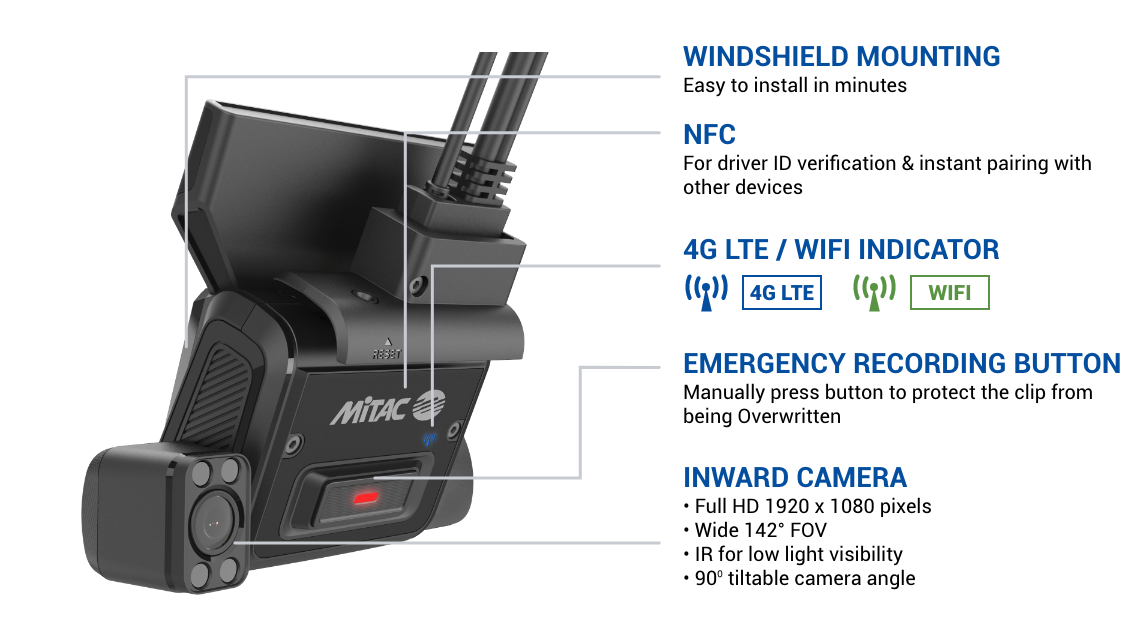
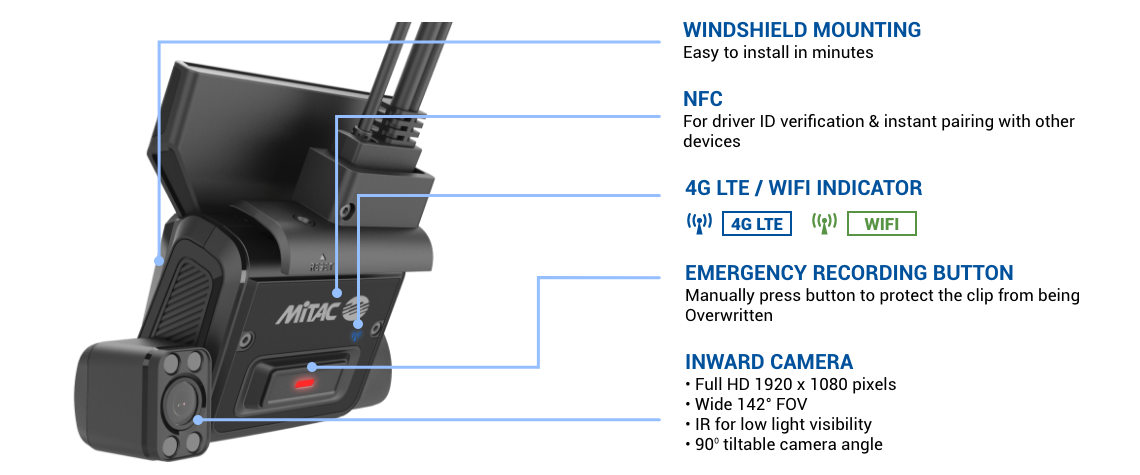
changed k145c images

Changed region(s): [[0.0614, 0.0295, 0.9825, 0.9726], [0.5833, 0.7368, 0.8289, 0.9726]]

diff --git a/en/connected-dashcam-K145C-K245C.php b/en/connected-dashcam-K145C-K245C.php
@@ -159,20 +159,24 @@
 				</div>
 				<div class="col-md-12 align-items-stretch padding-bottom-small background-grey">	
 					<div class="productGrid section justify-content-center text-left rwd-padding-on-grid pdt_img">
-						<img src="../images/video-telematics/K145C_K245C_detailed_views_01.png" />
+						<img src="../images/video-telematics/K145C_K245C_detailed_views_01.png" class="img-fluid mx-auto rounded d-none d-md-block" />
+						<img src="../images/video-telematics/K145C_K245C_detailed_views_m_01.png" class="img-fluid mx-auto rounded d-block d-md-none" />
 					</div>
 				</div>
 				<div class="col-md-12 align-items-stretch padding-bottom-small background-grey">	
 					<div class="productGrid section justify-content-center text-left rwd-padding-on-grid pdt_img">
-						<img src="../images/video-telematics/K145C_K245C_detailed_views_02.png" />
+						<img src="../images/video-telematics/K145C_K245C_detailed_views_02.png" class="img-fluid mx-auto rounded d-none d-md-block" />
+						<img src="../images/video-telematics/K145C_K245C_detailed_views_m_02.png" class="img-fluid mx-auto rounded d-block d-md-none" />
 					</div>
 				</div>
 				<div class="col-md-12 align-items-stretch padding-bottom-small background-grey">	
 					<div class="productGrid section justify-content-center text-left rwd-padding-on-grid pdt_img">
-						<img src="../images/video-telematics/K145C_K245C_detailed_views_03.png" />
+						<img src="../images/video-telematics/K145C_K245C_detailed_views_03.png" class="img-fluid mx-auto rounded d-none d-md-block" />
+						<img src="../images/video-telematics/K145C_K245C_detailed_views_m_03.png" class="img-fluid mx-auto rounded d-block d-md-none" />
 					</div>
 				</div>
 			</div>
+
 		</div>	
 	</div>
 

diff --git a/tw/connected-dashcam-K145C-K245C.php b/tw/connected-dashcam-K145C-K245C.php
@@ -162,20 +162,24 @@
 				</div>
 				<div class="col-md-12 align-items-stretch padding-bottom-small background-grey">	
 					<div class="productGrid section justify-content-center text-left rwd-padding-on-grid pdt_img">
-						<img src="../images/video-telematics/K145C_K245C_detailed_views_01.png" />
+						<img src="../images/video-telematics/K145C_K245C_detailed_views_01.png" class="img-fluid mx-auto rounded d-none d-md-block" />
+						<img src="../images/video-telematics/K145C_K245C_detailed_views_m_01.png" class="img-fluid mx-auto rounded d-block d-md-none" />
 					</div>
 				</div>
 				<div class="col-md-12 align-items-stretch padding-bottom-small background-grey">	
 					<div class="productGrid section justify-content-center text-left rwd-padding-on-grid pdt_img">
-						<img src="../images/video-telematics/K145C_K245C_detailed_views_02.png" />
+						<img src="../images/video-telematics/K145C_K245C_detailed_views_02.png" class="img-fluid mx-auto rounded d-none d-md-block" />
+						<img src="../images/video-telematics/K145C_K245C_detailed_views_m_02.png" class="img-fluid mx-auto rounded d-block d-md-none" />
 					</div>
 				</div>
 				<div class="col-md-12 align-items-stretch padding-bottom-small background-grey">	
 					<div class="productGrid section justify-content-center text-left rwd-padding-on-grid pdt_img">
-						<img src="../images/video-telematics/K145C_K245C_detailed_views_03.png" />
+						<img src="../images/video-telematics/K145C_K245C_detailed_views_03.png" class="img-fluid mx-auto rounded d-none d-md-block" />
+						<img src="../images/video-telematics/K145C_K245C_detailed_views_m_03.png" class="img-fluid mx-auto rounded d-block d-md-none" />
 					</div>
 				</div>
 			</div>
+
 		</div>	
 	</div>
 
